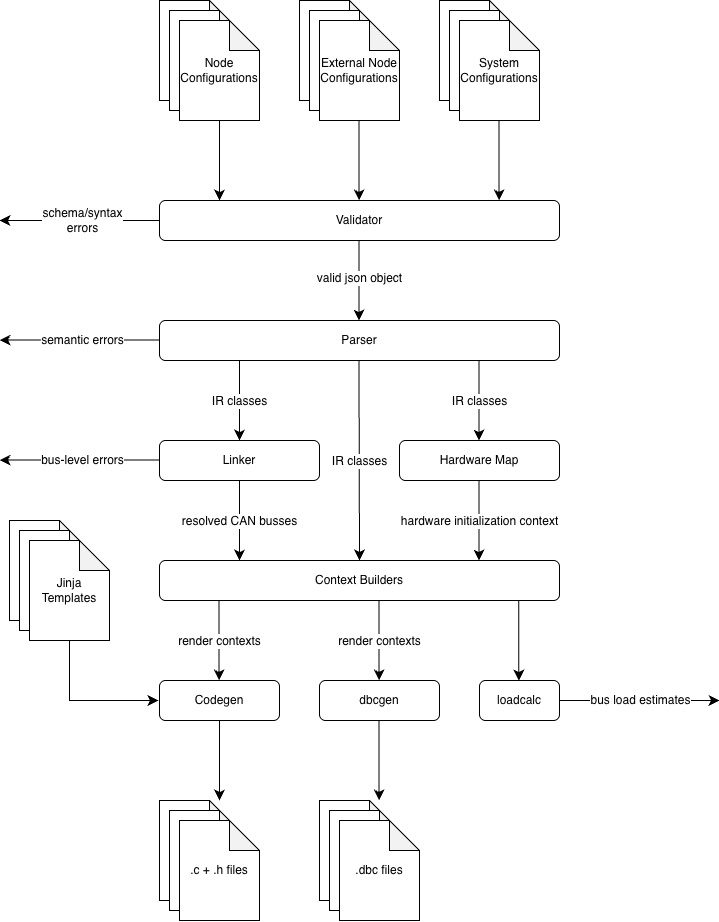
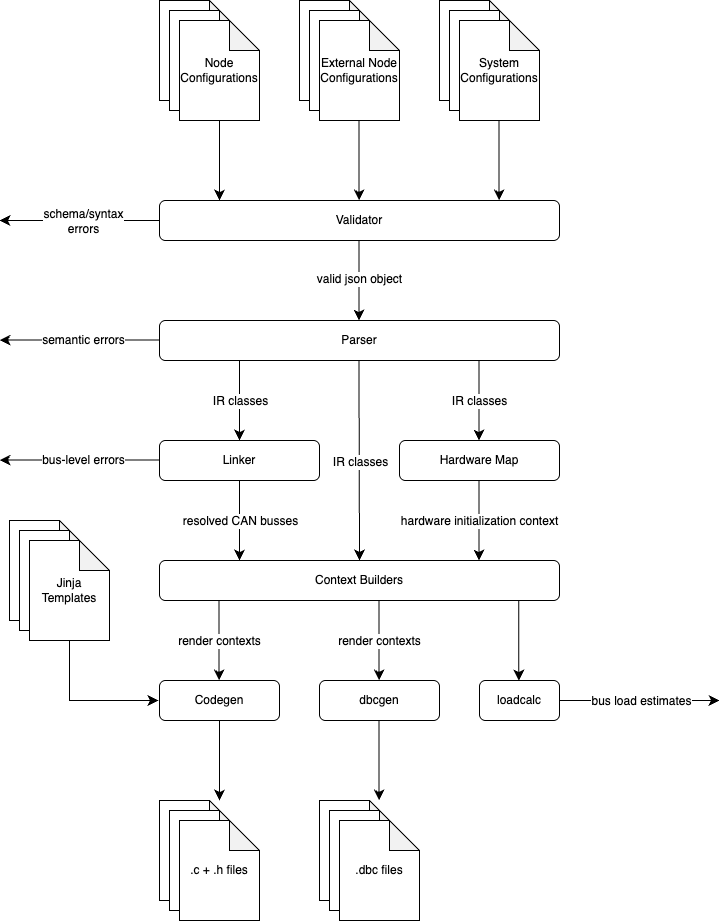
Documentation (#393)

Pull request: Documentation

diff --git a/source/dashboard/README.md b/source/dashboard/README.md
@@ -15,4 +15,13 @@ Additionally, it hosts the main driver interface for the vehicle, displaying tel
 - `pages/`: Per-page implementations (`race`, `faults`, `calibration`, `amk`). Each page exposes the callback set required by `lcd.c`.
 - [`telemetry.c`](telemetry/telemetry.c) / [`telemetry.h`](telemetry/telemetry.h)
 
-![colors](PER26_colors.png)
+# Design Files
+![colors](design/PER26_colors.png)
+
+![race](design/RACE.png)
+
+![calibration](design/CALIBRATION.png)
+
+![fault](design/FAULT.png)
+
+![amk](design/AMK.png)